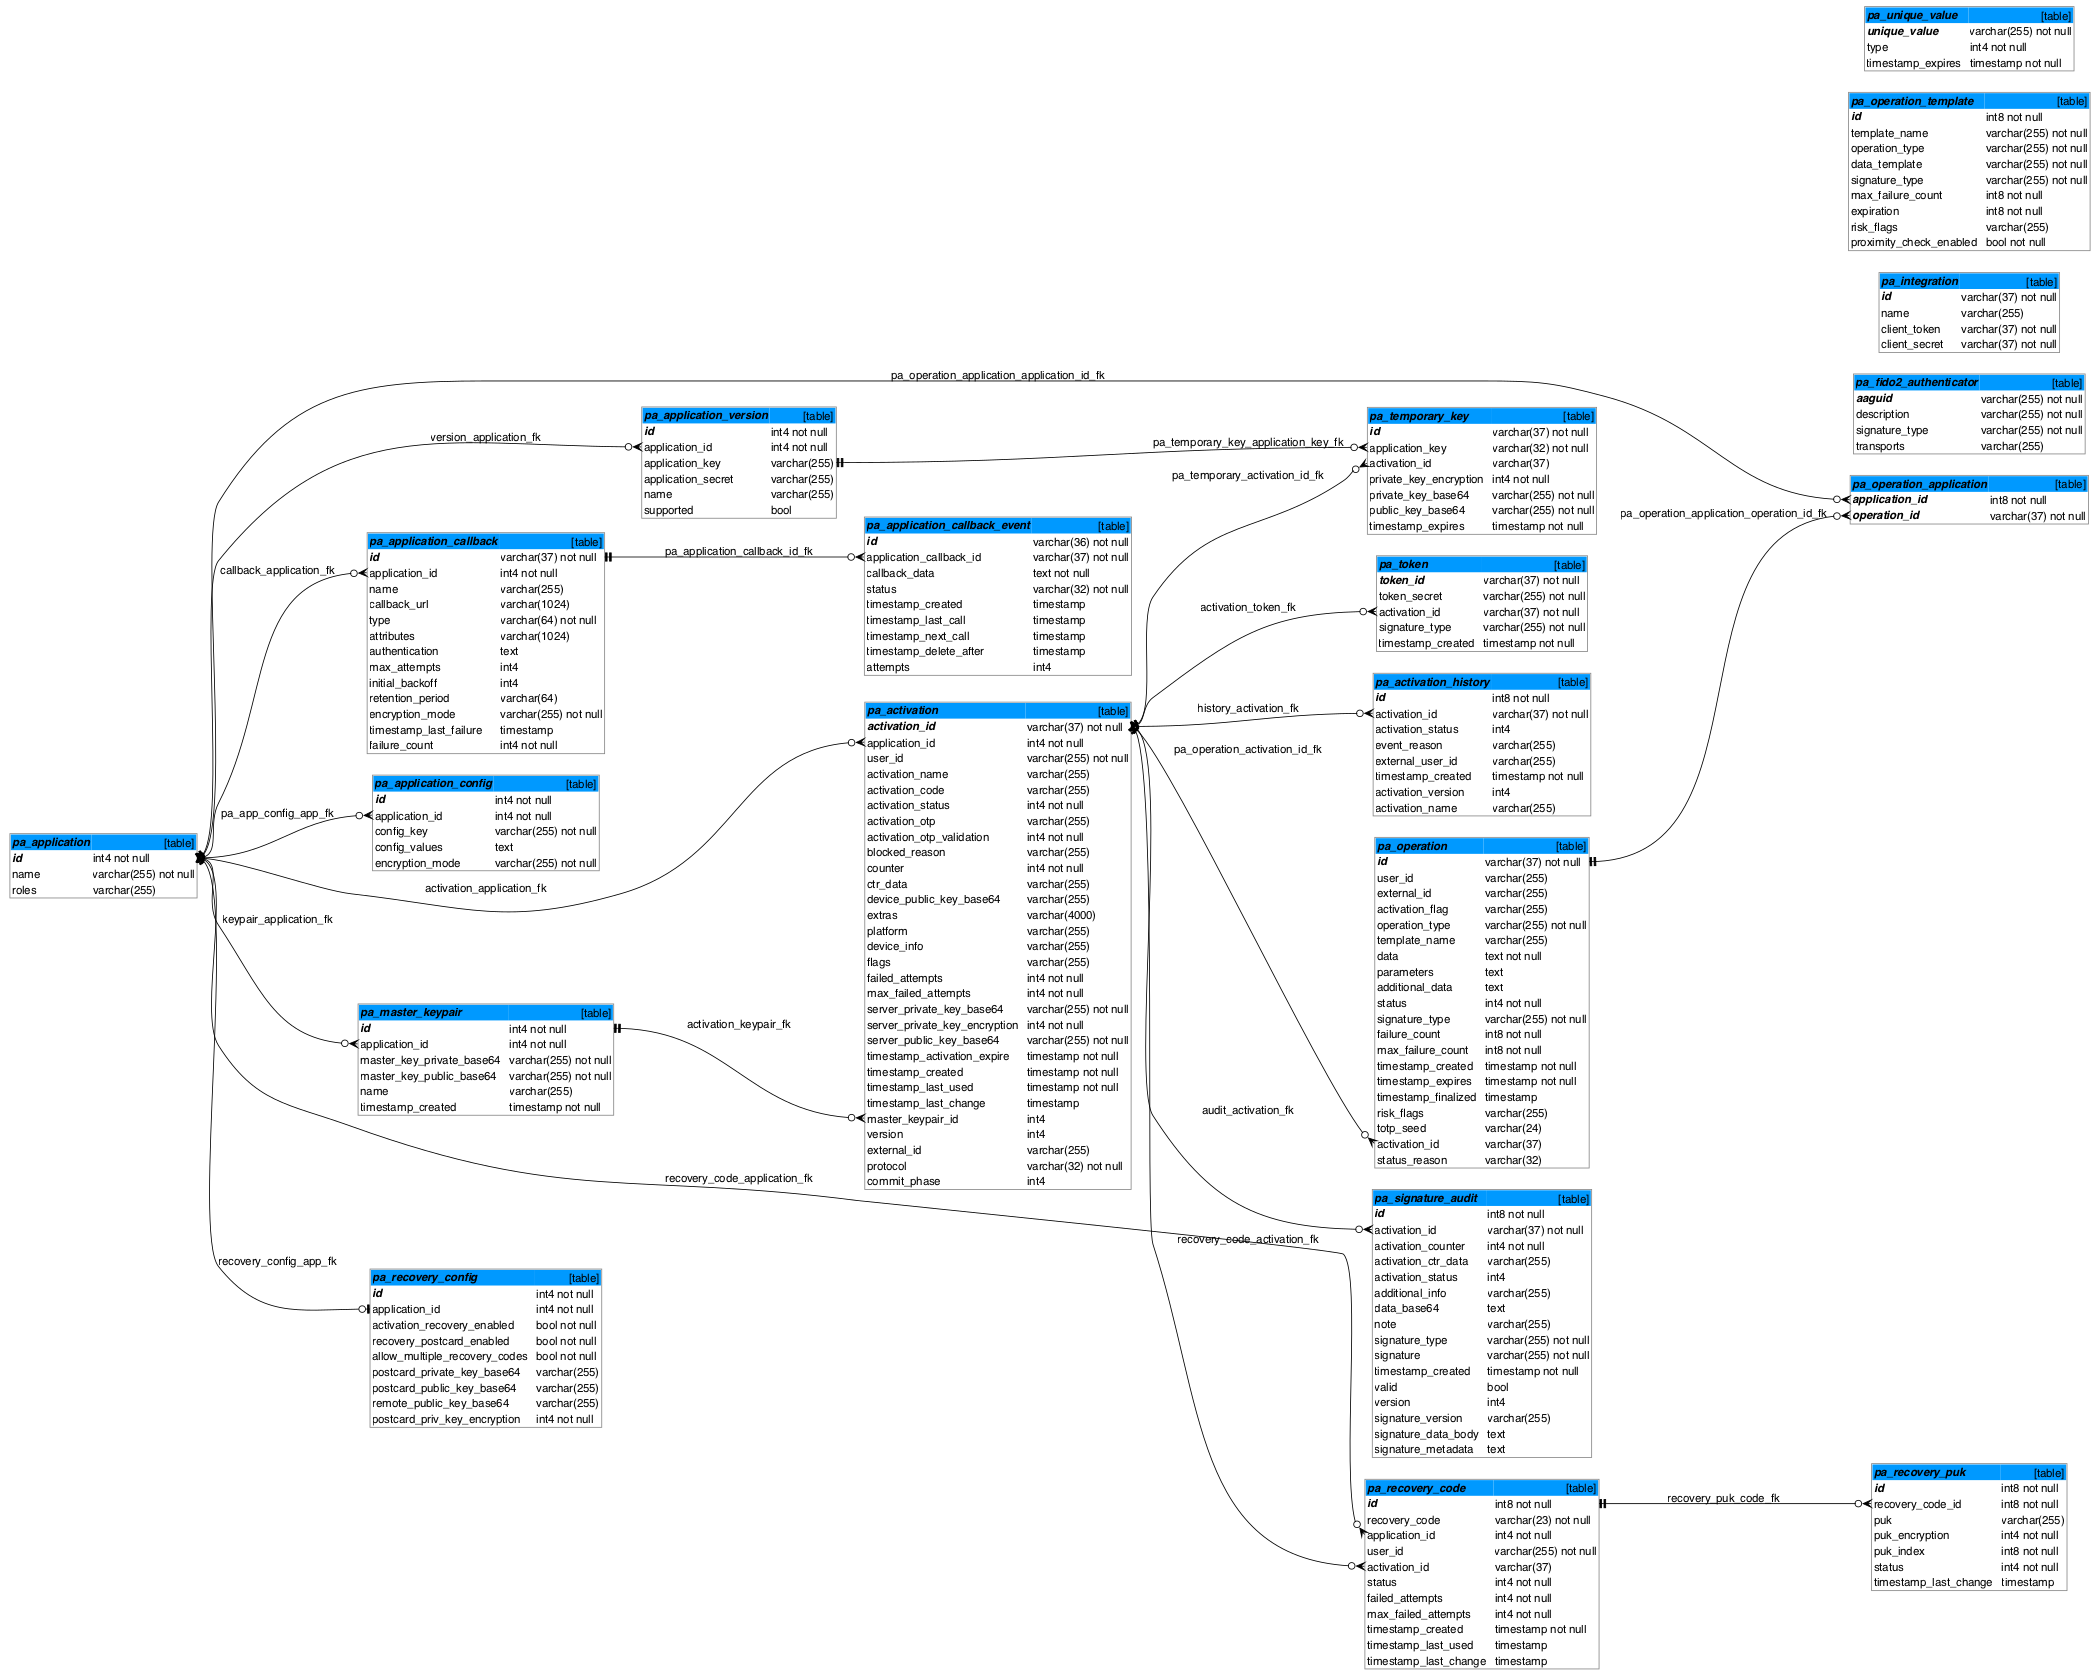
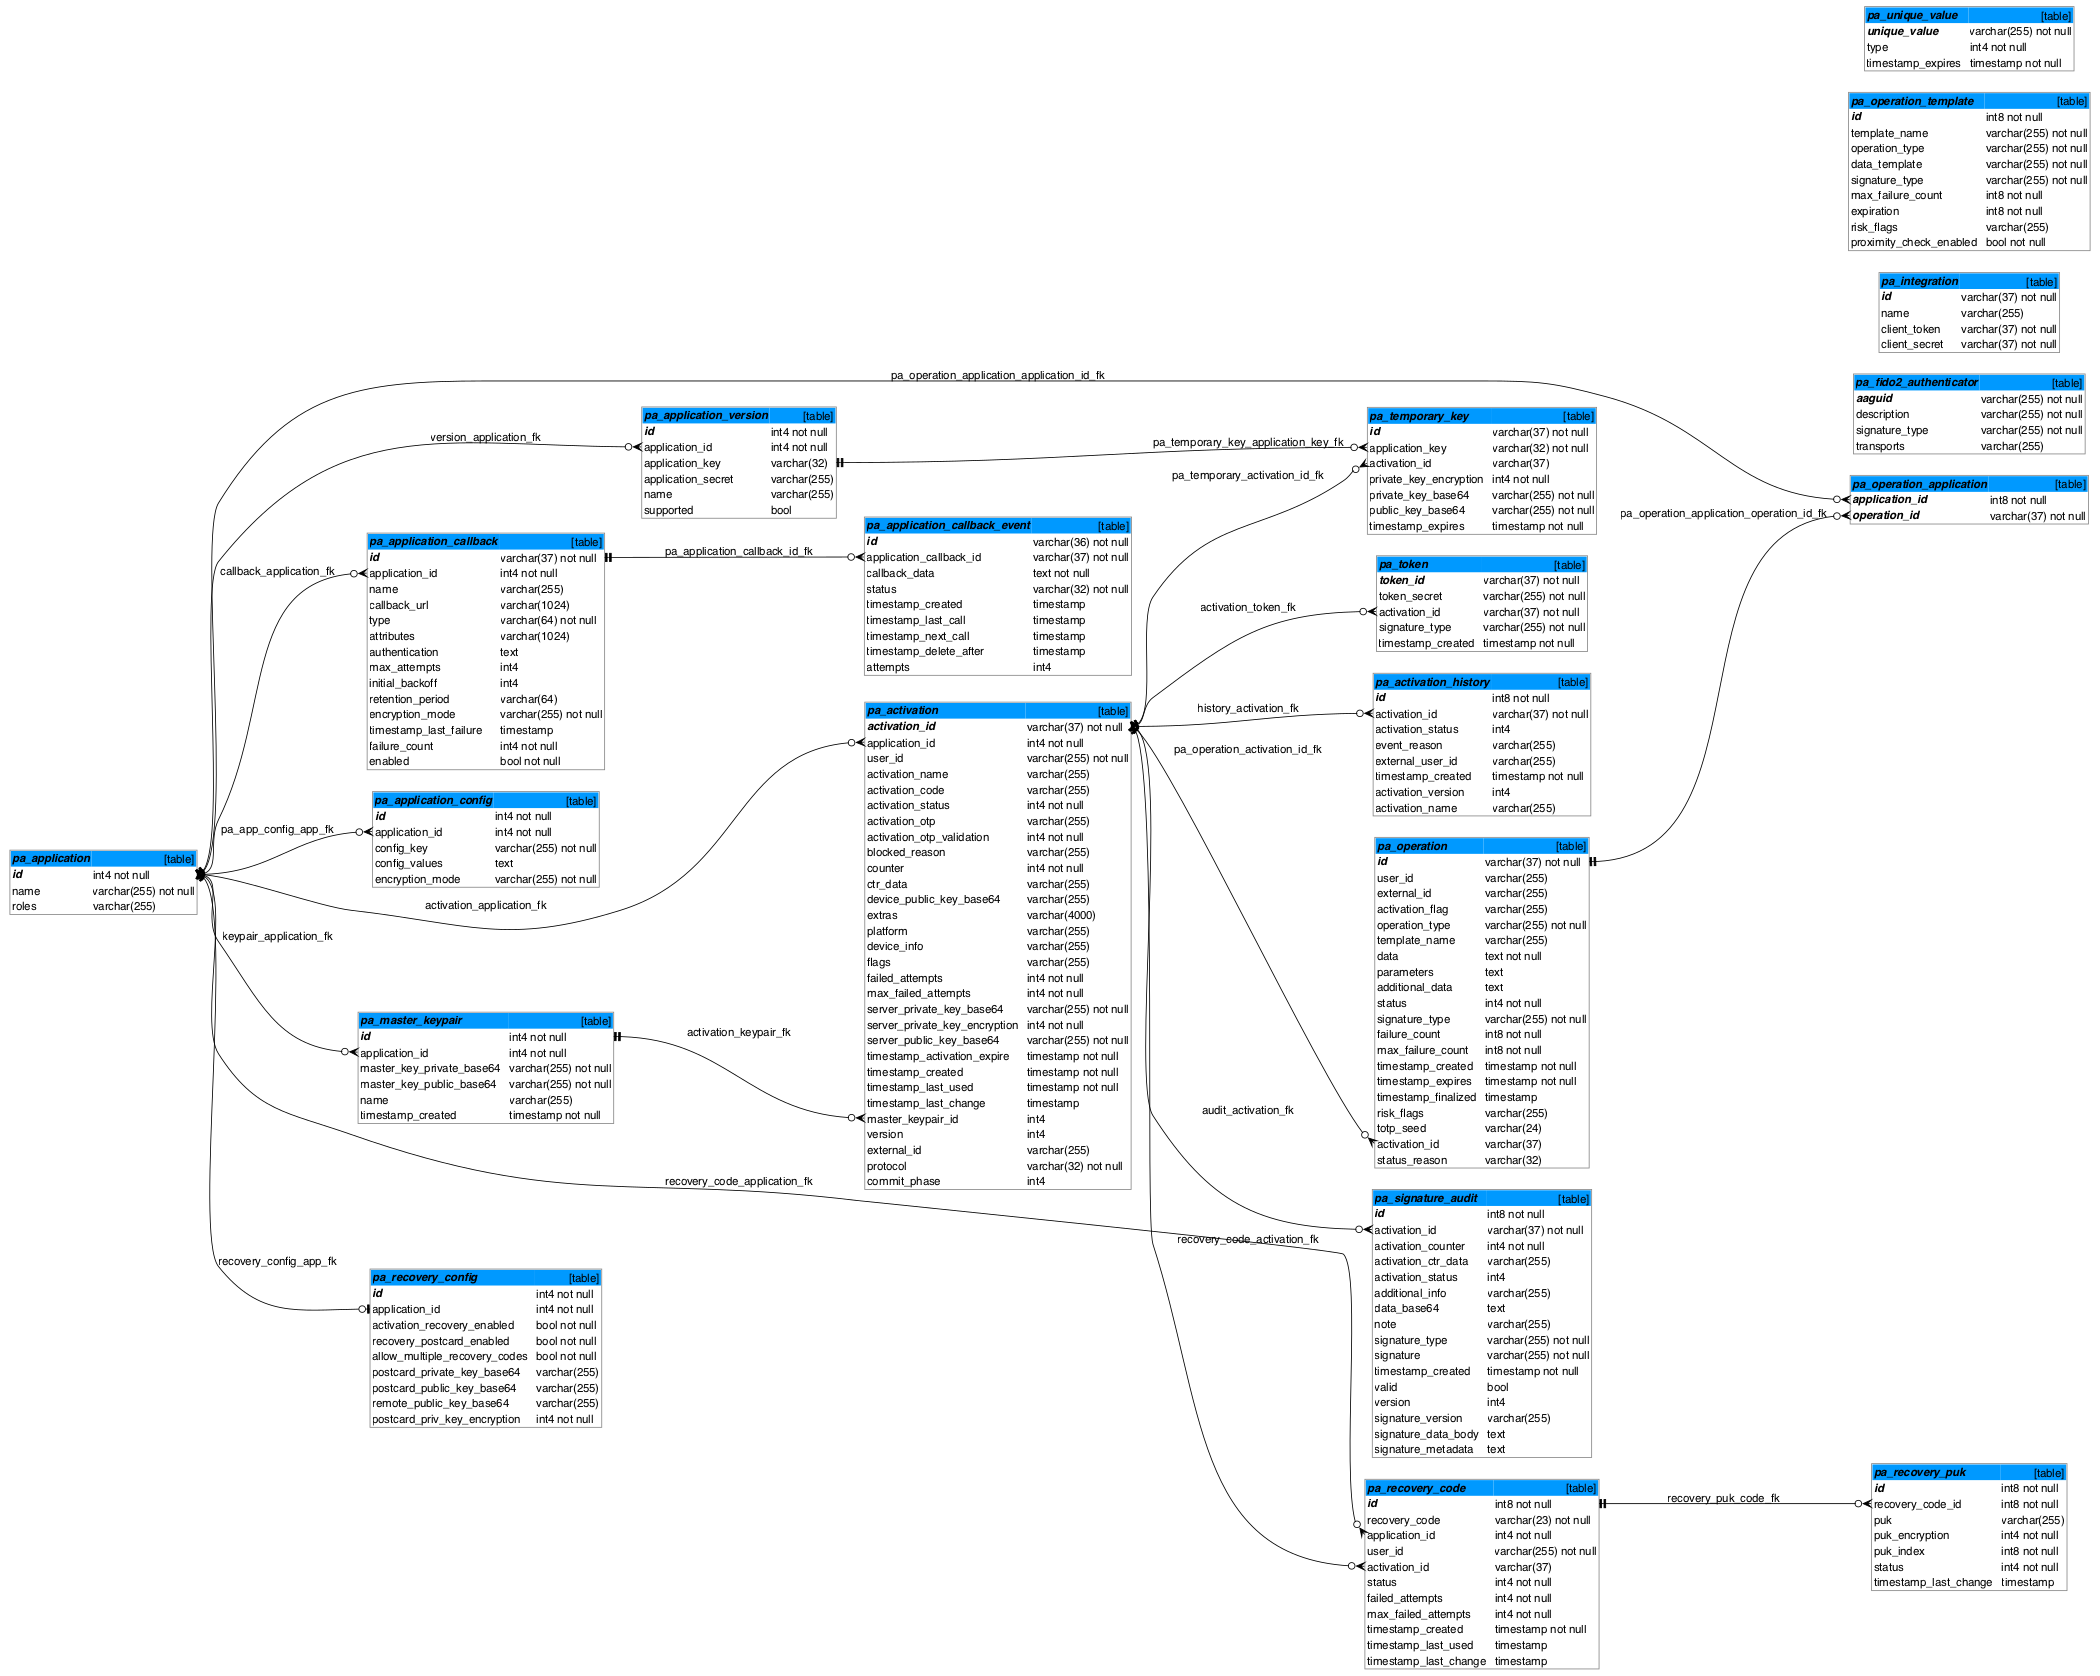
Fix #1722: Cannot remove callbacks due to foreign key constraint (#1728)

diff --git a/powerauth-java-server/src/test/java/io/getlime/security/powerauth/app/server/service/behavior/tasks/CallbackUrlBehaviorTest.java b/powerauth-java-server/src/test/java/io/getlime/security/powerauth/app/server/service/behavior/tasks/CallbackUrlBehaviorTest.java
@@ -18,8 +18,20 @@
 package io.getlime.security.powerauth.app.server.service.behavior.tasks;
 
 import com.wultra.security.powerauth.client.model.enumeration.CallbackUrlType;
+import com.wultra.security.powerauth.client.model.request.CreateCallbackUrlRequest;
+import com.wultra.security.powerauth.client.model.request.GetCallbackUrlListRequest;
+import com.wultra.security.powerauth.client.model.request.RemoveCallbackUrlRequest;
 import com.wultra.security.powerauth.client.model.request.UpdateCallbackUrlRequest;
+import com.wultra.security.powerauth.client.model.response.CreateCallbackUrlResponse;
+import com.wultra.security.powerauth.client.model.response.GetCallbackUrlListResponse;
+import com.wultra.security.powerauth.client.model.response.RemoveCallbackUrlResponse;
+import io.getlime.security.powerauth.app.server.configuration.PowerAuthCallbacksConfiguration;
+import io.getlime.security.powerauth.app.server.database.model.entity.ActivationRecordEntity;
 import io.getlime.security.powerauth.app.server.database.model.entity.CallbackUrlEntity;
+import io.getlime.security.powerauth.app.server.database.model.entity.CallbackUrlEventEntity;
+import io.getlime.security.powerauth.app.server.database.model.entity.OperationEntity;
+import io.getlime.security.powerauth.app.server.service.callbacks.CallbackUrlEventService;
+import io.getlime.security.powerauth.app.server.service.callbacks.model.CallbackUrlConvertor;
 import io.getlime.security.powerauth.app.server.service.exceptions.GenericServiceException;
 import io.getlime.security.powerauth.app.server.service.model.ServiceError;
 import jakarta.persistence.EntityManager;
@@ -27,13 +39,16 @@ import jakarta.transaction.Transactional;
 import org.junit.jupiter.api.Test;
 import org.springframework.beans.factory.annotation.Autowired;
 import org.springframework.boot.test.context.SpringBootTest;
+import org.springframework.boot.test.mock.mockito.MockBean;
 import org.springframework.test.context.ActiveProfiles;
 import org.springframework.test.context.jdbc.Sql;
 
+import java.util.Map;
 import java.util.UUID;
 
-import static org.junit.jupiter.api.Assertions.assertEquals;
-import static org.junit.jupiter.api.Assertions.assertThrows;
+import static org.junit.jupiter.api.Assertions.*;
+import static org.mockito.ArgumentMatchers.any;
+import static org.mockito.Mockito.*;
 
 /**
  * Test for {@link CallbackUrlBehavior}.
@@ -51,6 +66,36 @@ class CallbackUrlBehaviorTest {
 
     @Autowired
     private EntityManager entityManager;
+
+    @Autowired
+    private PowerAuthCallbacksConfiguration powerAuthCallbacksConfiguration;
+
+    @MockBean
+    private CallbackUrlEventService callbackUrlEventService;
+
+    @Test
+    void testCreateCallbackUrl() throws Exception {
+        final CreateCallbackUrlRequest request = new CreateCallbackUrlRequest();
+        request.setApplicationId("PA_Tests");
+        request.setCallbackUrl("http://localhost:8080");
+        request.setAuthentication(null);
+        request.setName("callbackName");
+        request.setType(CallbackUrlType.OPERATION_STATUS_CHANGE);
+
+        final CreateCallbackUrlResponse response = tested.createCallbackUrl(request);
+        assertEquals(powerAuthCallbacksConfiguration.getDefaultRetentionPeriod(), response.getRetentionPeriod());
+        assertEquals(powerAuthCallbacksConfiguration.getDefaultInitialBackoff(), response.getInitialBackoff());
+        assertEquals(powerAuthCallbacksConfiguration.getDefaultMaxAttempts(), response.getMaxAttempts());
+
+        final CallbackUrlEntity entity = entityManager.find(CallbackUrlEntity.class, response.getId());
+        assertEquals("PA_Tests", entity.getApplication().getId());
+        assertEquals("callbackName", entity.getName());
+        assertNull(entity.getRetentionPeriod());
+        assertNull(entity.getInitialBackoff());
+        assertNull(entity.getMaxAttempts());
+        assertEquals(0, entity.getFailureCount());
+        assertTrue(entity.isEnabled());
+    }
 
     @Test
     void updateCallbackUrlTest() throws Exception {
@@ -90,6 +135,19 @@ class CallbackUrlBehaviorTest {
     }
 
     @Test
+    void testUpdateCallbackUrl_callbackDisabled() {
+        final UpdateCallbackUrlRequest request = new UpdateCallbackUrlRequest();
+        request.setId("c3d5083a-ce9f-467c-af2c-0c950c197bba");
+        request.setType(CallbackUrlType.ACTIVATION_STATUS_CHANGE);
+        request.setApplicationId("PA_Tests");
+        request.setCallbackUrl("http://localhost:8080");
+        request.setName("new-name");
+
+        final GenericServiceException exception = assertThrows(GenericServiceException.class, () -> tested.updateCallbackUrl(request));
+        assertEquals(ServiceError.INVALID_REQUEST, exception.getCode());
+    }
+
+    @Test
     void updateCallbackUrlInvalidApplicationId() {
         final CallbackUrlEntity callbackUrl = entityManager.find(CallbackUrlEntity.class, "cafec169-28a6-490c-a1d5-c012b9e3c044");
         assertEquals("PA_Tests", callbackUrl.getApplication().getId());
@@ -104,6 +162,85 @@ class CallbackUrlBehaviorTest {
 
         final GenericServiceException exception = assertThrows(GenericServiceException.class, () -> tested.updateCallbackUrl(request));
         assertEquals(ServiceError.INVALID_REQUEST, exception.getCode());
+    }
+
+    @Test
+    void testGetCallbackUrlList() throws Exception {
+        final GetCallbackUrlListRequest request = new GetCallbackUrlListRequest();
+        request.setApplicationId("PA_Tests");
+
+        final GetCallbackUrlListResponse response = tested.getCallbackUrlList(request);
+        assertEquals(1, response.getCallbackUrlList().size());
+        assertEquals("cafec169-28a6-490c-a1d5-c012b9e3c044", response.getCallbackUrlList().get(0).getId());
+    }
+
+    @Sql
+    @Test
+    void testNotifyCallbackListenersOnOperationChange() {
+
+        when(callbackUrlEventService.obtainMaxAttempts(any()))
+                .thenReturn(1);
+        when(callbackUrlEventService.failureThresholdReached(any()))
+                .thenReturn(false);
+
+        final OperationEntity operation = entityManager.find(OperationEntity.class, "07e927af-689a-43ac-bd21-291179801912");
+        try (var mockedCallbackConvertor = mockStatic(CallbackUrlConvertor.class)) {
+            tested.notifyCallbackListenersOnOperationChange(operation);
+        }
+
+        final CallbackUrlEntity enabledCallback = entityManager.find(CallbackUrlEntity.class, "cba5f7aa-889e-4846-b97a-b6ba1bd51ad5");
+        final CallbackUrlEntity disabledCallback = entityManager.find(CallbackUrlEntity.class, "b5446f8f-a994-447e-b637-e7cd171a24b5");
+        final CallbackUrlEntity activationCallback = entityManager.find(CallbackUrlEntity.class, "be335b28-8474-41a6-82c8-19ff8b7e82d2");
+        final Map<String, Object> callbackData = Map.of("operationId", "07e927af-689a-43ac-bd21-291179801912", "type", "OPERATION");
+
+        verify(callbackUrlEventService)
+                .createAndSaveEventForProcessing(enabledCallback, callbackData);
+        verify(callbackUrlEventService, never())
+                .createAndSaveEventForProcessing(disabledCallback, callbackData);
+        verify(callbackUrlEventService, never())
+                .createAndSaveEventForProcessing(activationCallback, callbackData);
+    }
+
+    @Sql
+    @Test
+    void testNotifyCallbackListenersOnActivationChange() {
+        when(callbackUrlEventService.obtainMaxAttempts(any()))
+                .thenReturn(1);
+        when(callbackUrlEventService.failureThresholdReached(any()))
+                .thenReturn(false);
+
+        final ActivationRecordEntity activation = entityManager.find(ActivationRecordEntity.class, "e43a5dec-afea-4a10-a80b-b2183399f16b");
+        try (var mockedCallbackConvertor = mockStatic(CallbackUrlConvertor.class)) {
+            tested.notifyCallbackListenersOnActivationChange(activation);
+        }
+
+        final CallbackUrlEntity enabledCallback = entityManager.find(CallbackUrlEntity.class, "cba5f7aa-889e-4846-b97a-b6ba1bd51ad5");
+        final CallbackUrlEntity disabledCallback = entityManager.find(CallbackUrlEntity.class, "b5446f8f-a994-447e-b637-e7cd171a24b5");
+        final CallbackUrlEntity activationCallback = entityManager.find(CallbackUrlEntity.class, "be335b28-8474-41a6-82c8-19ff8b7e82d2");
+        final Map<String, Object> callbackData = Map.of("activationId", "e43a5dec-afea-4a10-a80b-b2183399f16b", "type", "ACTIVATION");
+
+        verify(callbackUrlEventService)
+                .createAndSaveEventForProcessing(enabledCallback, callbackData);
+        verify(callbackUrlEventService, never())
+                .createAndSaveEventForProcessing(disabledCallback, callbackData);
+        verify(callbackUrlEventService, never())
+                .createAndSaveEventForProcessing(activationCallback, callbackData);
+    }
+
+    @Test
+    void testRemoveCallbackUrl() throws Exception {
+        final CallbackUrlEntity callbackUrlEntity = entityManager.find(CallbackUrlEntity.class, "cafec169-28a6-490c-a1d5-c012b9e3c044");
+        assertTrue(callbackUrlEntity.isEnabled());
+
+        final CallbackUrlEventEntity callbackUrlEventEntity = entityManager.find(CallbackUrlEventEntity.class, 1);
+        assertNotNull(callbackUrlEventEntity);
+        assertEquals(callbackUrlEventEntity.getCallbackUrlEntity().getId(), callbackUrlEntity.getId());
+
+        final RemoveCallbackUrlRequest request = new RemoveCallbackUrlRequest();
+        request.setId(callbackUrlEntity.getId());
+
+        final RemoveCallbackUrlResponse response = tested.removeCallbackUrl(request);
+        entityManager.flush();
     }
 
 }

diff --git a/powerauth-java-server/src/main/java/io/getlime/security/powerauth/app/server/database/model/entity/CallbackUrlEntity.java b/powerauth-java-server/src/main/java/io/getlime/security/powerauth/app/server/database/model/entity/CallbackUrlEntity.java
@@ -25,6 +25,7 @@ import io.getlime.security.powerauth.app.server.database.model.enumeration.Encry
 import jakarta.persistence.*;
 import lombok.Getter;
 import lombok.Setter;
+import org.hibernate.annotations.SQLRestriction;
 
 import java.io.Serial;
 import java.io.Serializable;
@@ -41,6 +42,7 @@ import java.util.Objects;
 @Entity
 @Table(name = "pa_application_callback")
 @Getter @Setter
+@SQLRestriction("enabled = true")
 public class CallbackUrlEntity implements Serializable {
 
     @Serial
@@ -130,6 +132,12 @@ public class CallbackUrlEntity implements Serializable {
      */
     @Column(name = "failure_count", nullable = false)
     private Integer failureCount;
+
+    /**
+     * Whether the callback is enabled and can be used.
+     */
+    @Column(name = "enabled", nullable = false)
+    private boolean enabled = true;
 
     @Override
     public boolean equals(Object o) {

diff --git a/powerauth-java-server/src/main/java/io/getlime/security/powerauth/app/server/database/repository/CallbackUrlRepository.java b/powerauth-java-server/src/main/java/io/getlime/security/powerauth/app/server/database/repository/CallbackUrlRepository.java
@@ -55,4 +55,13 @@ public interface CallbackUrlRepository extends CrudRepository<CallbackUrlEntity,
            """)
     void resetFailureCount(String id);
 
+    @Modifying
+    @Query("""
+            UPDATE CallbackUrlEntity c
+            SET c.enabled = false
+            WHERE c = :entity
+            """)
+    @Override
+    void delete(CallbackUrlEntity entity);
+
 }

diff --git a/docs/PowerAuth-Server-1.9.0.md b/docs/PowerAuth-Server-1.9.0.md
@@ -62,6 +62,13 @@ failures:
 - `failure_count` to hold the number of consecutive failed callbacks of the same configuration, and
 - `timestamp_last_failure` to store the timestamp of the most recent failed callback attempt.
 
+### Add Column Indicating If a Callback Is Enabled
+
+A new column `enabled` has been added to the `pa_application_callback` table to indicate whether a Callback URL is
+enabled or disabled. When a new Callback URL is created via the Callback URL Management API, the `enabled` column is set
+to `true` (enabled) by default. A Callback URL remains enabled until a delete request is made through the Callback URL
+Management API, at which point the `enabled` column is set to `false` (disabled). Disabled Callback URLs will be
+excluded from all subsequent queries and operations.
 
 ## REST API Changes
 

diff --git a/docs/Database-Structure.md b/docs/Database-Structure.md
@@ -187,6 +187,7 @@ Stores callback URLs - per-application endpoints that are notified whenever an a
 | retention_period | VARCHAR(64) | - | Minimal duration for which is a completed callback event persisted, stored as a ISO 8601 string. |
 | timestamp_last_failure | DATETIME | - | The timestamp of the most recent failed callback event associated with this configuration. |
 | failure_count | INTEGER | - | The number of consecutive failed callback events associated with this configuration. |
+| enabled | BOOLEAN | - | Indicator specifying whether the Callback URL should be used. |
 <!-- end -->
 
 <!-- begin database table pa_token -->
